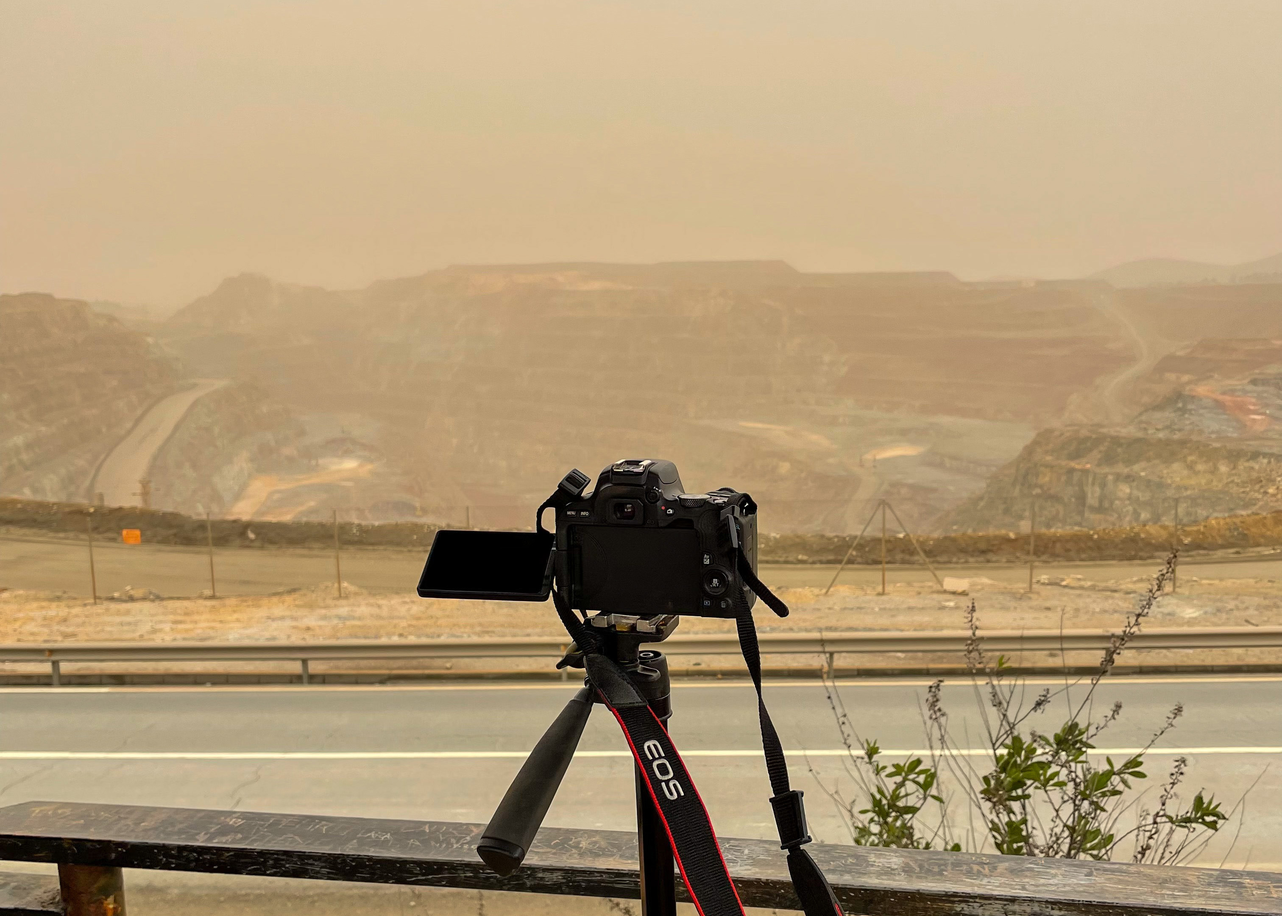
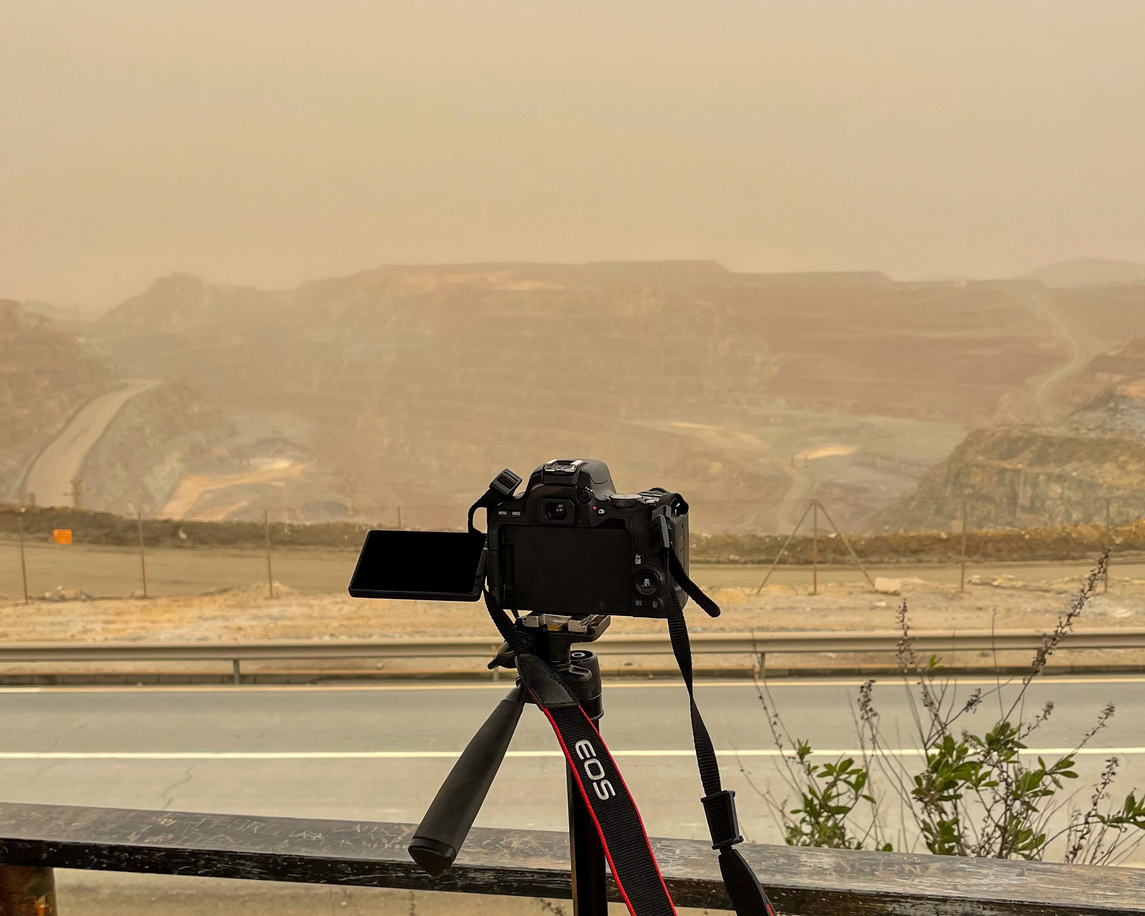
resize img

diff --git a/works.html b/works.html
@@ -70,19 +70,8 @@
                 <p class="opacity-low">London 2019-</p>
             </div>
         </div>
-
-        <div class="img-box">
-            <a href="air-art.html">
-                <img src="imgs/air-art/air-art-main.jpg" alt="paper streamers above a group of happy people" /></a>
-            <div class="caption">
-                <p>Air Art</p>
-                <p class="opacity-low">Curatorial 2023-4</p>
-            </div>
-        </div>
-
-
-
-        <div class="img-box">
+        
+          <div class="img-box">
             <a href="intheair.html">
                 <img src="imgs/postcards-reverse.jpeg" alt="nine postcards" /></a>
             <div class="caption">
@@ -91,8 +80,41 @@
             </div>
         </div>
 
-    
+  
+
+
+    <button class="return_portfolio" id="archive_btn" onclick="showArchive()">archived items</button>
+
+    <div class="gallery-image" id="gallery_archive">
         
+              <div class="img-box">
+            <a href="air-art.html">
+                <img src="imgs/air-art/air-art-main.jpg" alt="paper streamers above a group of happy people" /></a>
+            <div class="caption">
+                <p>Air Art</p>
+                <p class="opacity-low">Curatorial 2023-4</p>
+            </div>
+        </div>
+        
+         <div class="img-box">
+            <a href="rio-tinto.html">
+                <img src="imgs/riotinto/IMG_9804.jpg" alt="" /></a>
+            <div class="caption">
+                <p>Minas de Ríotinto</p>
+                <p class="opacity-low">Huelva 2022</p>
+            </div>
+        </div>
+
+        <div class="img-box">
+            <a href="airways.html">
+                <img src="imgs/airways/airways-main2.jpg" alt="air quality monitoring station" /></a>
+            <div class="caption">
+                <p>Airways</p>
+                <p class="opacity-low">London</p>
+            </div>
+        </div>
+
+  
          <div class="img-box">
             <a href="algal-worlds.html">
                 <img src="imgs/alga/algal-main.png"/></a>
@@ -112,28 +134,7 @@
         </div>
     </div>
 
-
-    <button class="return_portfolio" id="archive_btn" onclick="showArchive()">archived items</button>
-
-    <div class="gallery-image" id="gallery_archive">
-
-        <div class="img-box">
-            <a href="rio-tinto.html">
-                <img src="imgs/riotinto/IMG_9804.jpg" alt="" /></a>
-            <div class="caption">
-                <p>Minas de Ríotinto</p>
-                <p class="opacity-low">Huelva 2022</p>
-            </div>
-        </div>
-
-        <div class="img-box">
-            <a href="airways.html">
-                <img src="imgs/airways/airways-main2.jpg" alt="air quality monitoring station" /></a>
-            <div class="caption">
-                <p>Airways</p>
-                <p class="opacity-low">London</p>
-            </div>
-        </div>
+       
     </div>
 
     <div class="spacer"></div>

diff --git a/styles.css b/styles.css
@@ -240,8 +240,8 @@ blockquote {
     padding-top: 1em;
     padding-bottom: 3em;
     border-style: solid;
-    border-color: #ccc;
-    color: #ccc;
+    border-color: #gray;
+    color: #gray;
     border-width: thin;
     background-color: white;
     font: inherit;
@@ -550,7 +550,7 @@ footer a {
     position: relative;
     display: block;
     min-height: 140vh;
-    padding: 0em 1em 2em 1em;
+    padding: 2em 1em 2em 1em;
     width: 95%;
     height: auto;
     max-width: 1200px;
